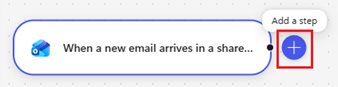
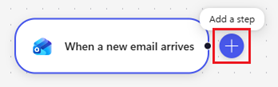
Simplify workflow agent selection and refresh screenshots

Changed region(s): [[0.0288, 0.1609, 0.9784, 0.8736], [0.777, 0.092, 0.9209, 0.1379], [0.7194, 0.092, 0.7482, 0.1149]]

diff --git a/01-scenarios/HR-Onboarding-Agent-GHCP/3.Runbook.md b/01-scenarios/HR-Onboarding-Agent-GHCP/3.Runbook.md
@@ -250,17 +250,18 @@ Use [Copilot Studio Workflows](https://learn.microsoft.com/en-us/microsoft-copil
 
 > ![Set the Subject filter value to HR question](0.Resources/Images/071.png?v=cb0a2ae6902f)
 
-> Keep **Include Attachments = No**. Backend intake still checks authoritative attachment metadata; this switch does not reject attached mail. A subject filter is not an authorization control. Before invoking the agent, validate transport authenticity, employee mapping, stable message identity, rate/loop suppression and full request coverage through `AcceptHrEmailEvent`.
-
 7. Click **+** after the trigger to add a new step.
 
-> ![Click the plus button after the trigger to add a step](0.Resources/Images/073.png?v=d0b66a5cbca8)
+> ![Click the plus button after the trigger to add a step](0.Resources/Images/073.png?v=21e54c6783dc)
 
 8. Select **Agent**.
 
 > ![Select Agent from the Add panel](0.Resources/Images/074.png?v=ab6f6a190055)
 
-9. Select **An existing agent** → the published **HR Onboarding Agent**. Do not create an inline agent or substitute an unverified Execute Agent connector route. Complete the remaining instructions and skill setup, then republish before testing this node.
+9. Select **HR Onboarding Agent**.
+
+> ![Select HR Onboarding Agent in the Workflow](0.Resources/Images/075.png?v=79c570a9be73)
+
 10. In **Message**, supply the sanitized inquiry and isolated trusted context and allowed topics from accepted intake. Record exact GHCP target/version, imported skill execution and effective retrieval identity. Keep **Request human assistance when unsure** disabled; exceptions use the fixed HR queue, not email to the connection owner.
 
 11. In the **same workflow**, parse the returned candidate as untrusted data. Run `ValidateHrEmailReply`, then `SubmitHrEmailReply` **only** on an authorized server result, using its `authorizationId` and `validatedResultId`. Send only the validated, sanitized HTML body bound by the backend; never accept model-provided recipients or authorization.
@@ -280,7 +281,6 @@ Use [Copilot Studio Workflows](https://learn.microsoft.com/en-us/microsoft-copil
 3. Click **"Save"**
 
 > **Screenshot to replace — GHCP:** complete four-skill Instructions block and Save.
-> ![Instructions editor with content filled in and the Save button](0.Resources/Images/075.png?v=b2c134a0a664)
 
 
 ---
